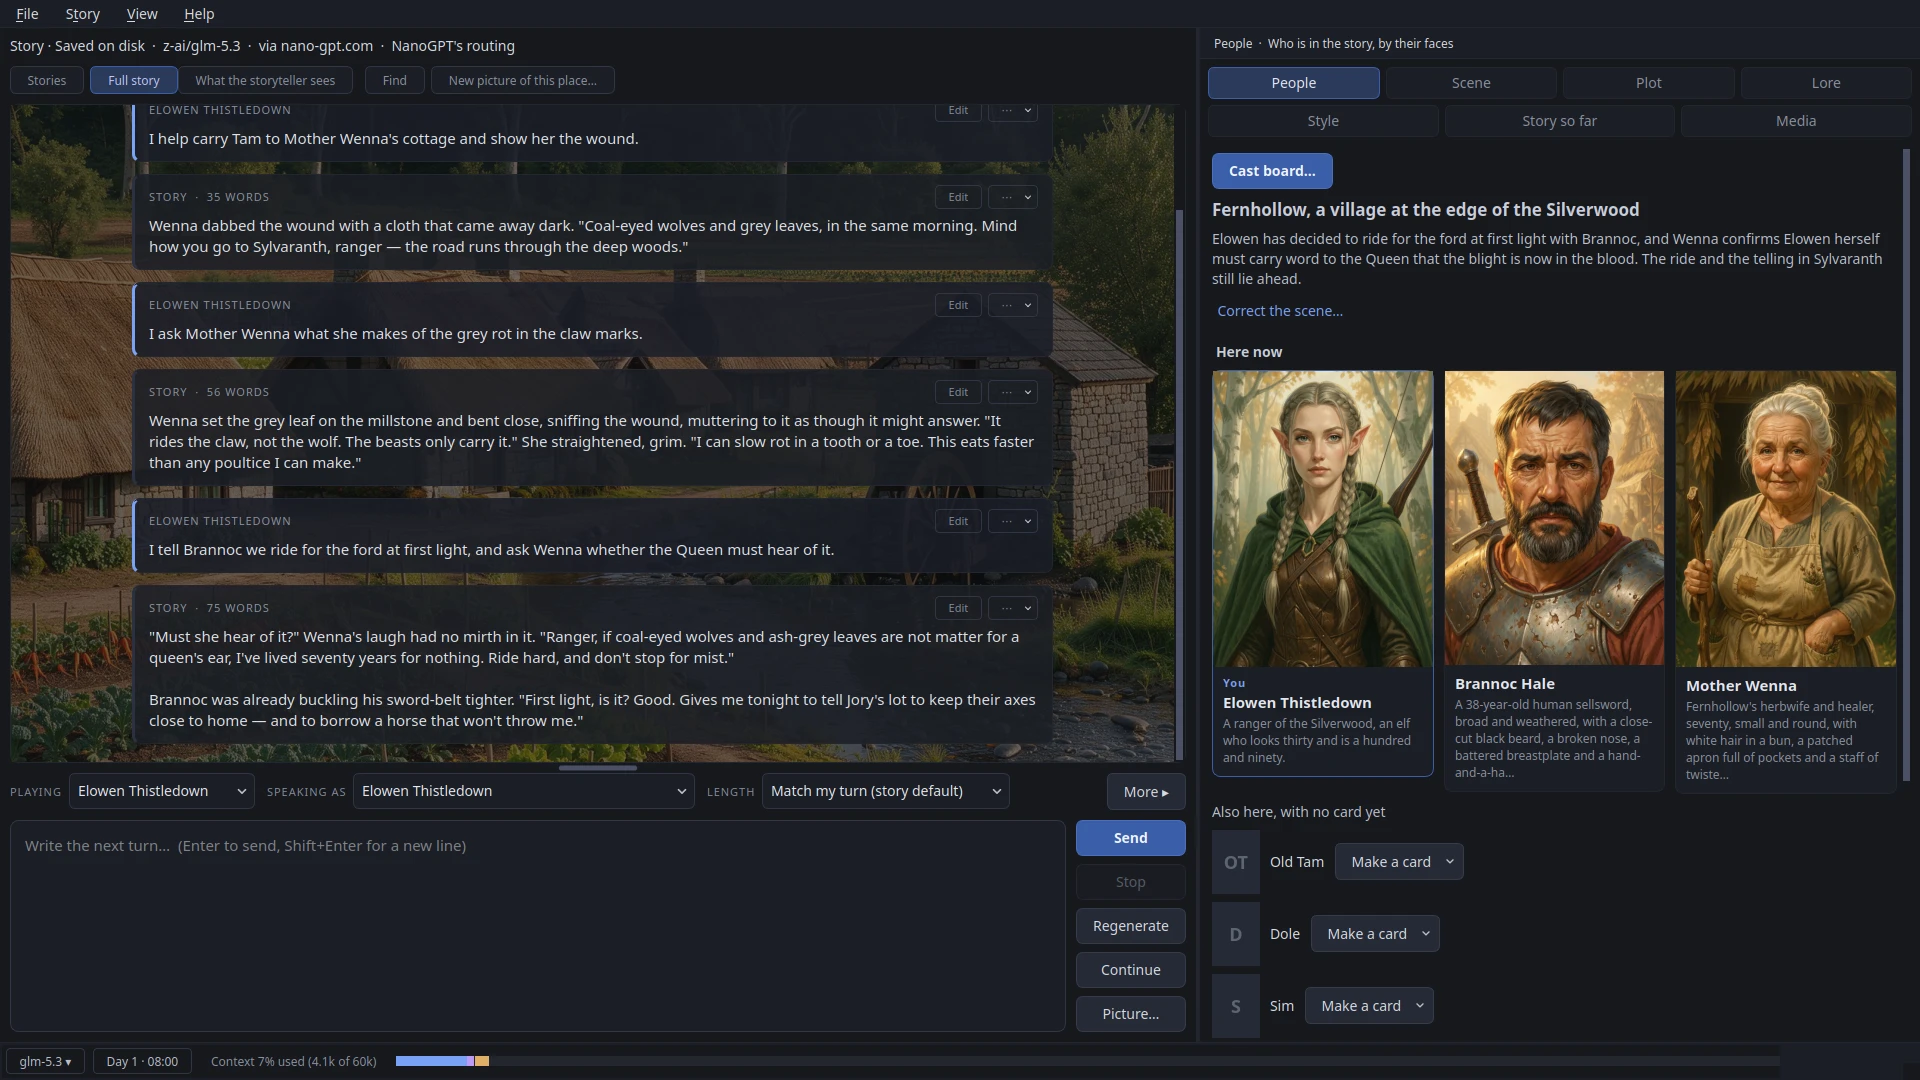
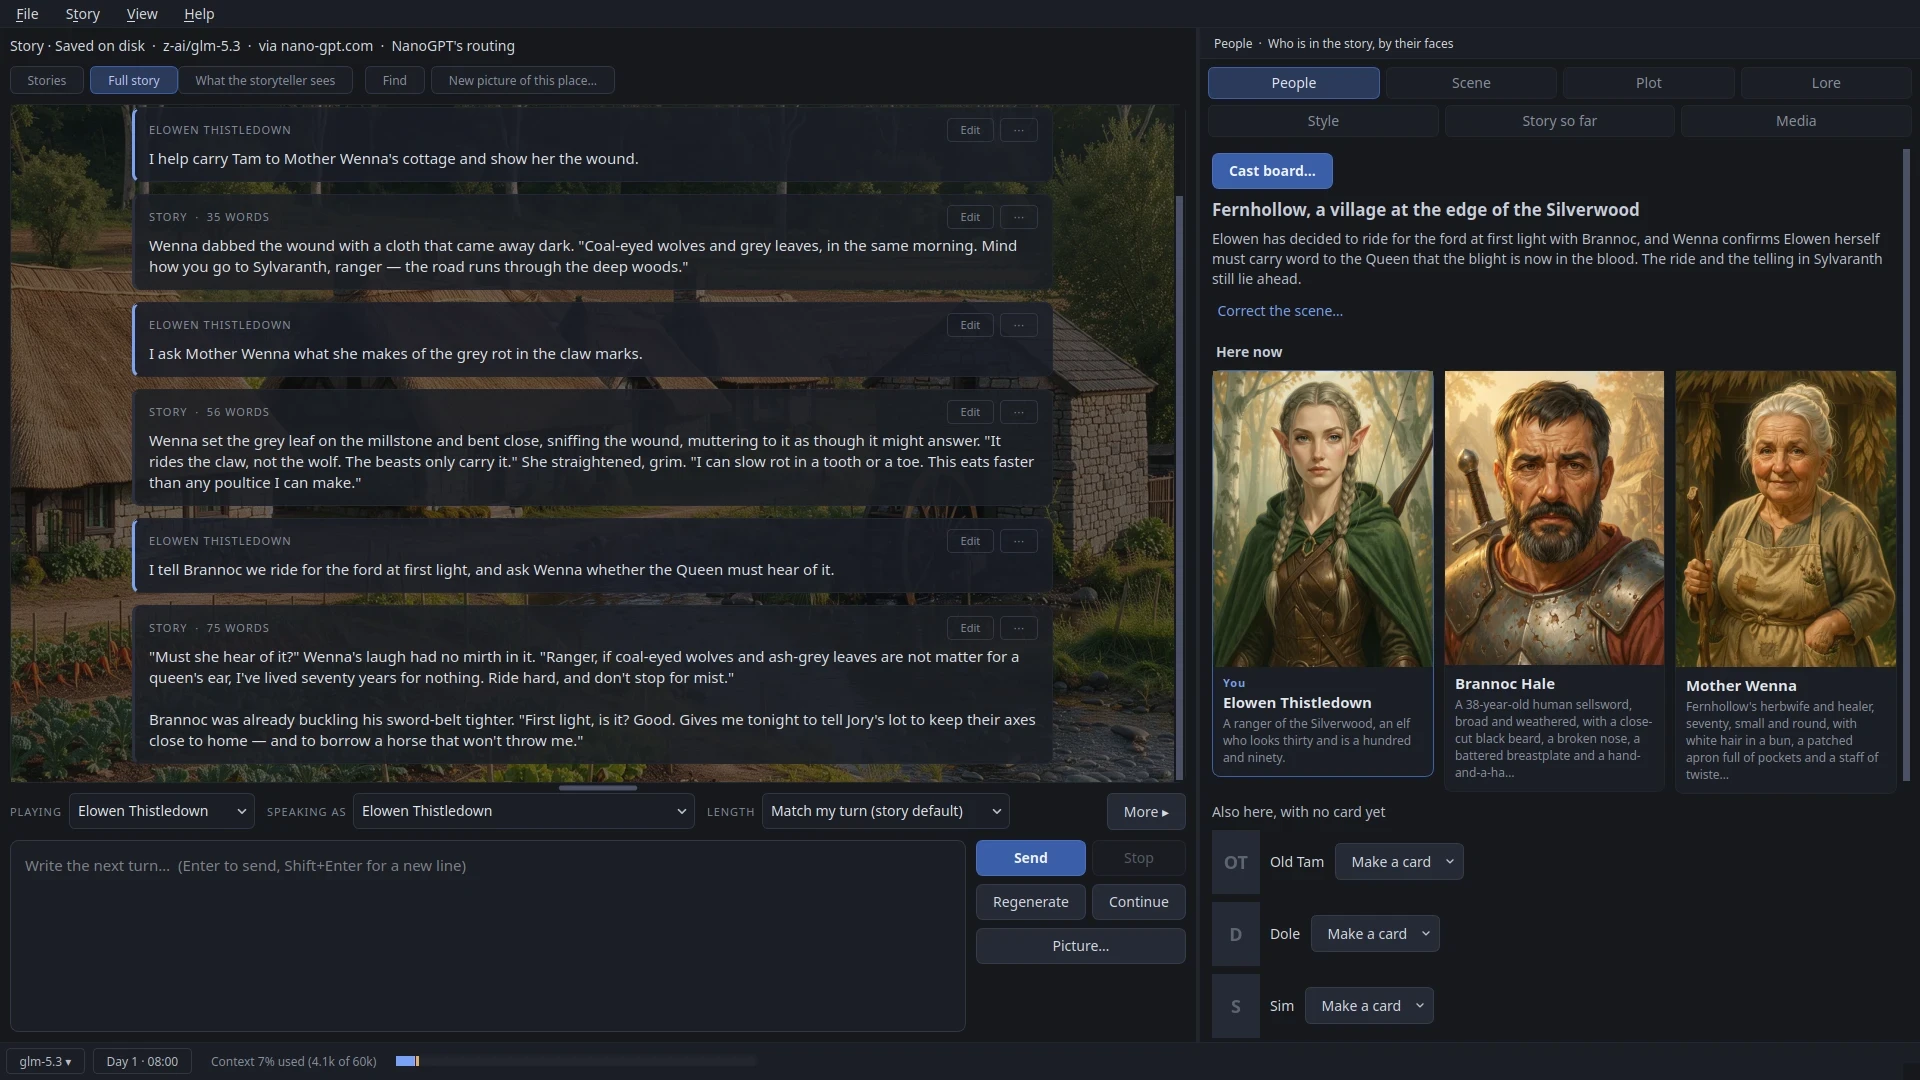
Docs: the screenshots the look-over changed, retaken
The window playing (the composer's two columns, the status bar), the cast
board's Card and Pictures tabs and a card in Your characters (the portrait's
More, the cast list), Settings → Models (Choose), the start page (no empty
meter), the picture dialog (Choose…) and what the storyteller sees (⋯).
Offscreen through the docs scripts; the picture dialog and the storyteller's
view from a live run on GLM 5.3. The picture dialog's caption no longer says
the prompt numbers its pictures: this one's prompt doesn't.

Changed region(s): [[0.0, 0.0917, 0.625, 0.9778], [0.5625, 0.0917, 0.625, 0.1528], [0.2188, 0.9778, 0.25, 1.0]]

diff --git a/docs/manual.md b/docs/manual.md
@@ -2079,7 +2079,7 @@ marks it "held back" or "mentioned".
 
 ## Pictures
 
-![The picture dialog: a direction, the picture's style, the prompt the story's model wrote from it, the herbwife's and the ranger's portraits as the reference pictures, numbered as the prompt refers to them, and the model, size and price, with Generate](screenshots/picture-dialog.png)
+![The picture dialog: a direction, the picture's style, the prompt the story's model wrote from it, the herbwife's and the ranger's portraits as the reference pictures, numbered, and the model, size and price, with Generate](screenshots/picture-dialog.png)
 
 **Story → Draw a picture…** (Ctrl+Shift+I), the **Picture…** button beside the
 composer, or **Illustrate this passage…** in a passage's ⋯ menu asks the
